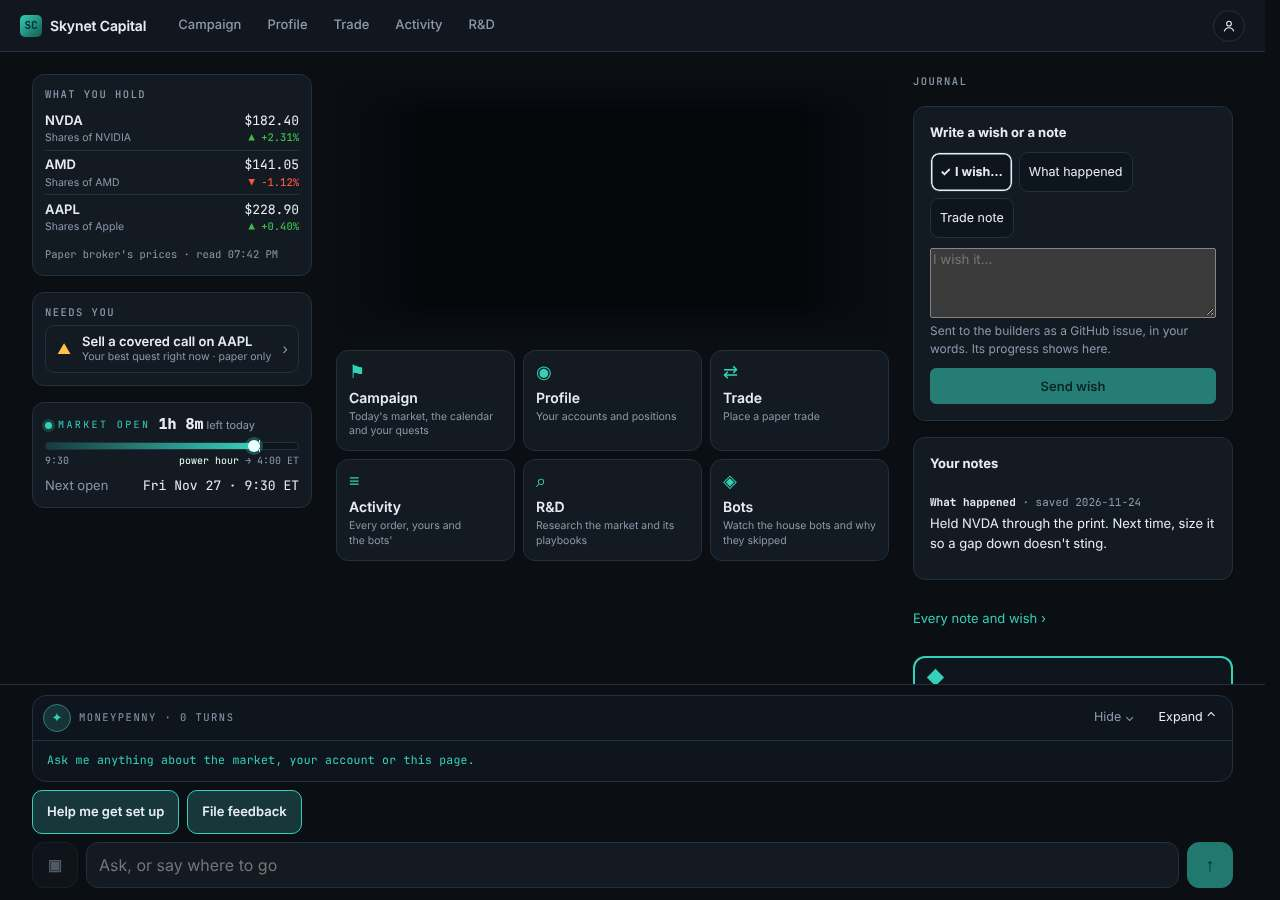
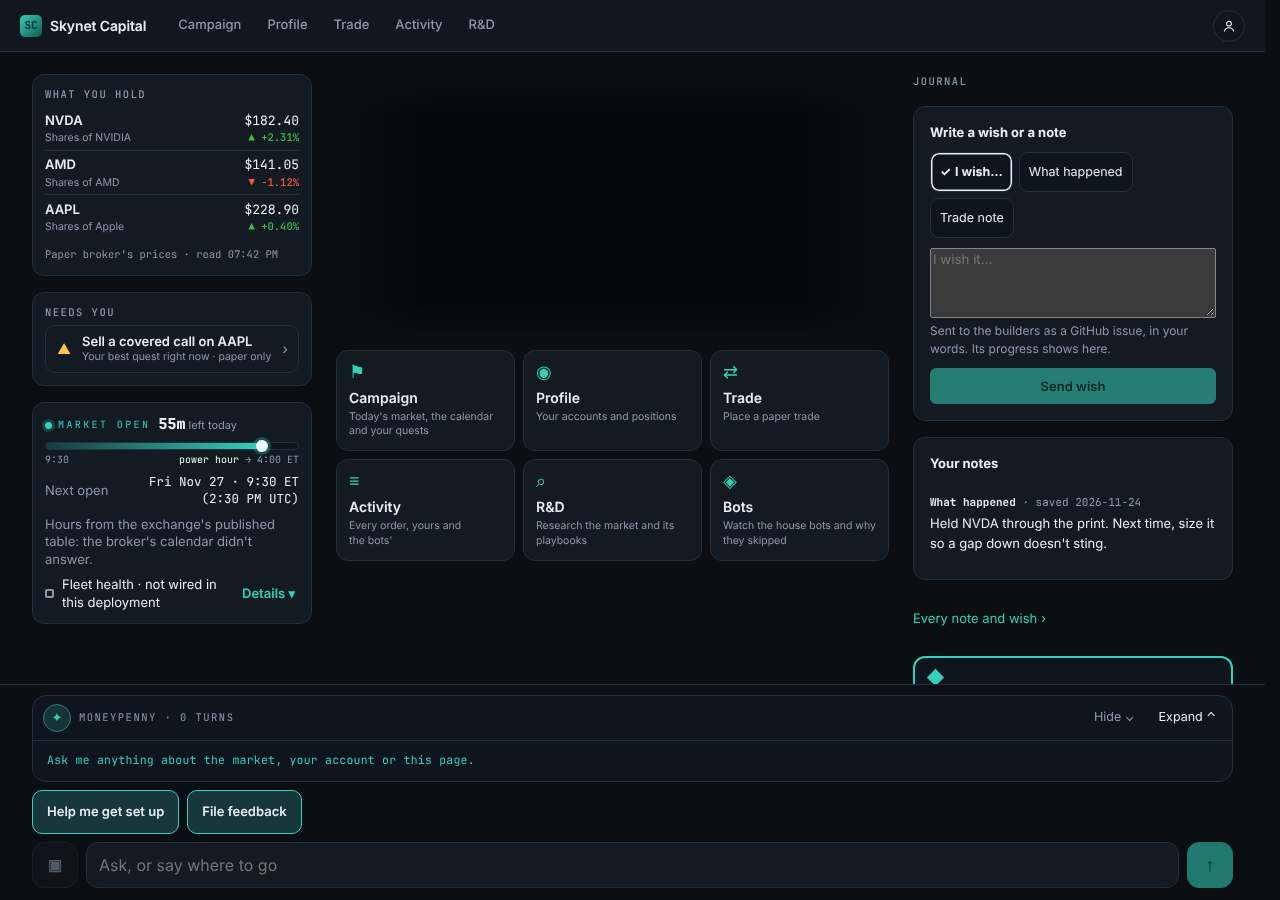
fix(app): side panels carry the bar's whole status panel; a pending filing read is not 'off' (#8297)
The panel clock now carries the bar's opened panel whole (next open in the viewer's time, the
hours notes, fleet health), since the bar's line steps aside at this width. The Journal waits for
the filings read instead of reading a pending or failed one as 'filing is off'. What you hold
lists account by account (a weight never ranks across two), keys on the account id and names the
oldest read. The failed-read gate scans the side panels too.

Claude-Session: https://claude.ai/code/session_01XLEAM4HyTq3nPgSYCbZX15

Changed region(s): [[0.0312, 0.4667, 0.25, 0.6844], [0.1875, 0.6533, 0.25, 0.6844]]

diff --git a/app/src/shell/side-panels.tsx b/app/src/shell/side-panels.tsx
@@ -4,12 +4,20 @@ import type { ReactElement, ReactNode } from "react";
 import { type DeskPosition, type DeskSnapshot, fetchDesk, type Tone } from "../live/desk";
 import { fetchFeedbackIndex } from "../live/feedback";
 import { fetchJournal, type JournalIndex } from "../live/journal";
-import { nextOpenLabel } from "../live/market-session";
+import {
+  localTimeSuffix,
+  marketSession,
+  nextOpenInstant,
+  nextOpenLabel,
+  viewerTimeZone,
+} from "../live/market-session";
 import { fetchSettings } from "../live/settings";
+import { FleetHealth, useFleet } from "./fleet-health";
 import { JournalComposer } from "./journal-composer";
 import { JournalNotes } from "./journal-notes";
 import { MarketSession, useNow } from "./market-session";
 import { NeedsYou, ScoreboardTile } from "./needs-you";
+import { HoursNotes } from "./session-status";
 import { useMediaQuery } from "./use-media";
 import { PANELS_QUERY } from "./widths";
 
@@ -59,14 +67,28 @@ export function readTime(iso: string): string {
   return at.toLocaleTimeString([], { hour: "2-digit", minute: "2-digit" });
 }
 
-/** One row per held position across the member's own accounts, biggest weight first. */
-export function heldRows(
-  snapshots: readonly DeskSnapshot[],
-): readonly { readonly position: DeskPosition; readonly account: string }[] {
+/** One row per held position, account by account in the member's own order, each account's
+ *  biggest weight first. A weight is a share of its own account, so it never ranks across two. An
+ *  error-tagged account is skipped: its `positions: []` is a failed read, never "holds nothing". */
+export function heldRows(snapshots: readonly DeskSnapshot[]): readonly {
+  readonly position: DeskPosition;
+  readonly accountId: string;
+}[] {
   return snapshots
     .filter((s) => !s.desk.error)
-    .flatMap((s) => s.desk.positions.map((position) => ({ position, account: s.desk.name })))
-    .sort((a, b) => b.position.weightPct - a.position.weightPct);
+    .flatMap((s) =>
+      [...s.desk.positions]
+        .sort((a, b) => b.weightPct - a.weightPct)
+        .map((position) => ({ position, accountId: s.desk.id })),
+    );
+}
+
+/** The oldest read among the accounts listed: the one time that is true of every row. */
+export function oldestRead(snapshots: readonly DeskSnapshot[]): string | undefined {
+  return snapshots
+    .filter((s) => !s.desk.error)
+    .map((s) => s.generatedAt)
+    .sort((a, b) => Date.parse(a) - Date.parse(b))[0];
 }
 
 function HeldNames(): ReactElement | null {
@@ -83,15 +105,15 @@ function HeldNames(): ReactElement | null {
   if (!desks.data) return null;
   const rows = heldRows(desks.data);
   if (rows.length === 0) return null;
-  const read = desks.data.find((s) => !s.desk.error)?.generatedAt;
+  const read = oldestRead(desks.data);
   return (
     <section className="dp-card dp-held" aria-labelledby="dp-held-title">
       <h2 id="dp-held-title" className="home-eyebrow">
         What you hold
       </h2>
       <ul className="dp-held-rows">
-        {rows.map(({ position: p, account }) => (
-          <li key={`${account}:${p.symbol}`}>
+        {rows.map(({ position: p, accountId }) => (
+          <li key={`${accountId}:${p.symbol}`}>
             <Link className="dp-held-row" to="/accounts">
               <span className="dp-held-name">
                 <span className="dp-held-symbol">{p.display}</span>
@@ -116,15 +138,26 @@ function HeldNames(): ReactElement | null {
   );
 }
 
-/** The opened clock and the next open: the top bar's folded clock steps aside while it stands. */
+/** Everything the top bar's opened status panel says, standing: the clock, the next open (in
+ *  the viewer's own time too), the hours notes (a half day, or hours from the published table when
+ *  the broker's calendar didn't answer) and fleet health. The bar's line steps aside while it
+ *  stands (`side-panels.css`), so nothing the line opened is lost at this width. */
 function PanelClock(): ReactElement {
   const now = useNow();
+  const fleet = useFleet();
+  const local = localTimeSuffix(nextOpenInstant(now), viewerTimeZone());
   return (
-    <section className="dp-card dp-clock" aria-label="Market clock">
+    <section className="dp-card dp-clock" aria-label="Market clock and fleet health">
       <MarketSession now={now} />
-      <p className="dp-clock-next">
-        <span>Next open</span> <span className="num">{nextOpenLabel(now)}</span>
+      <p className="status-panel-row">
+        <span>Next open</span>
+        <span className="num">
+          <span>{nextOpenLabel(now)}</span>
+          {local ? <span className="status-panel-local">{local}</span> : null}
+        </span>
       </p>
+      <HoursNotes view={marketSession(now)} />
+      <FleetHealth fleet={fleet} />
     </section>
   );
 }
@@ -150,11 +183,19 @@ function JournalCard(): ReactElement {
       <h2 id="dp-journal-title" className="home-eyebrow">
         Journal
       </h2>
-      <JournalComposer
-        wishesEnabled={Boolean(feedback.data?.enabled) && journal.wishesEnabled}
-        notesAvailable={journal.available}
-        notesReason={journal.reason}
-      />
+      {/* As Profile's section does: the composer waits for the filings read, so a pending or
+          failed read is never shown as "filing is switched off" (#8316's rule). */}
+      {feedback.data ? (
+        <JournalComposer
+          wishesEnabled={feedback.data.enabled && journal.wishesEnabled}
+          notesAvailable={journal.available}
+          notesReason={journal.reason}
+        />
+      ) : (
+        <p className="note">
+          {feedback.isError ? "Your journal is unreachable right now." : "Opening your journal…"}
+        </p>
+      )}
       <JournalNotes
         notes={journal.notes.slice(0, 1)}
         available={journal.available}

diff --git a/app/tests/shell/side-panels.spec.tsx b/app/tests/shell/side-panels.spec.tsx
@@ -1,10 +1,10 @@
 import { describe, expect, it } from "@rstest/core";
 import type { DeskPosition, DeskSnapshot } from "../../src/live/desk";
-import { heldRows, readTime, TONE_SHAPE } from "../../src/shell/side-panels";
+import { heldRows, oldestRead, readTime, TONE_SHAPE } from "../../src/shell/side-panels";
 
 /**
  * #8297: the left panel's "What you hold" heads the panel when the member holds positions. WHEN
- * desks are read, it SHALL list every held position across the member's own accounts, biggest
+ * desks are read, it SHALL list every held position, account by account, each account's biggest
  * weight first, and SHALL skip an account whose read came back error-tagged (its `positions: []`
  * is a failed read, never "holds nothing"). Every move SHALL wear a shape beside its sign.
  */
@@ -12,22 +12,27 @@ import { heldRows, readTime, TONE_SHAPE } from "../../src/shell/side-panels";
 const pos = (symbol: string, weightPct: number): DeskPosition =>
   ({ symbol, display: symbol, weightPct }) as DeskPosition;
 
-const snap = (name: string, positions: readonly DeskPosition[], error?: string): DeskSnapshot =>
+const snap = (
+  name: string,
+  positions: readonly DeskPosition[],
+  error?: string,
+  generatedAt = "2026-11-25T19:42:00Z",
+): DeskSnapshot =>
   ({
-    generatedAt: "2026-11-25T19:42:00Z",
+    generatedAt,
     desk: { id: name, name, kind: "human", positions, ...(error ? { error } : {}) },
   }) as DeskSnapshot;
 
 describe("heldRows", () => {
-  it("lists every held position across accounts, biggest weight first", () => {
+  it("lists account by account, each account's biggest weight first (a weight never ranks across two)", () => {
     const rows = heldRows([
       snap("A", [pos("AMD", 10), pos("NVDA", 60)]),
-      snap("B", [pos("AAPL", 30)]),
+      snap("B", [pos("AAPL", 90)]),
     ]);
-    expect(rows.map((r) => `${r.account}:${r.position.symbol}`)).toEqual([
+    expect(rows.map((r) => `${r.accountId}:${r.position.symbol}`)).toEqual([
       "A:NVDA",
-      "B:AAPL",
       "A:AMD",
+      "B:AAPL",
     ]);
   });
 
@@ -43,6 +48,16 @@ describe("heldRows", () => {
 describe("the move's shape and the read time", () => {
   it("pairs up with ▲ and down with ▼; flat wears none", () => {
     expect(TONE_SHAPE).toEqual({ pos: "▲", neg: "▼", flat: "" });
+  });
+
+  it("names the oldest read among the accounts listed, skipping a failed one", () => {
+    expect(
+      oldestRead([
+        snap("A", [], undefined, "2026-11-25T19:42:00Z"),
+        snap("B", [], undefined, "2026-11-25T19:02:00Z"),
+        snap("C", [], "unreachable", "2026-11-25T18:00:00Z"),
+      ]),
+    ).toBe("2026-11-25T19:02:00Z");
   });
 
   it("formats an ISO read time as a clock time, and keeps text that isn't a date", () => {

diff --git a/app/src/styles/side-panels.css b/app/src/styles/side-panels.css
@@ -115,17 +115,47 @@
   color: var(--muted);
 }
 
-/* ── The clock ── */
-.dp-clock-next {
-  margin: 8px 0 0;
+/* ── The clock: the status panel's rows, sized for a 280px panel ── */
+.dp-clock {
+  display: flex;
+  flex-direction: column;
+  gap: 8px;
+  font-size: 13px;
+  line-height: 1.35;
+}
+.dp-clock .status-panel-row {
+  margin: 0;
   display: flex;
   justify-content: space-between;
   gap: 8px;
-  font-size: 13px;
+}
+.dp-clock > .status-panel-row > span:first-child {
+  white-space: nowrap;
   color: var(--muted);
 }
-.dp-clock-next .num {
-  color: var(--text);
+.dp-clock .status-panel-row .num {
+  display: flex;
+  flex-direction: column;
+  align-items: flex-end;
+  text-align: right;
+}
+.dp-clock > .status-panel-row[data-note] > span:first-child {
+  white-space: normal;
+}
+/* Fleet health: the bar's panel lays it out as `display: contents` in a row; here it is its own
+   wrapping line, its rows (when asked for) below. */
+.dp-clock .fleet-health {
+  display: flex;
+  flex-wrap: wrap;
+  align-items: center;
+  justify-content: space-between;
+  gap: 4px 8px;
+}
+.dp-clock .fleet-summary {
+  min-width: 0;
+}
+.dp-clock .fleet-health .ops-rows-wrap {
+  flex-basis: 100%;
 }
 
 /* ── The Journal ── */

diff --git a/tests/arch/failed-read-not-empty.spec.ts b/tests/arch/failed-read-not-empty.spec.ts
@@ -27,6 +27,8 @@ const ROUTES = "app/src/routes";
 /** The home's "Needs you" left the route for the shell in #8297 (the desktop panels stand it beside
  *  other pages); the scan follows it there so its anchor never goes blind. */
 const NEEDS_YOU = "app/src/shell/needs-you.tsx";
+/** The desktop side panels (#8297) read desks, filings and notes beside any page that takes them. */
+const SIDE_PANELS = "app/src/shell/side-panels.tsx";
 
 /** Reads a hub participant row's positions: `….getState().participants` plus a `.positions`. */
 const READS_HUB_POSITIONS = (text: string): boolean =>
@@ -122,7 +124,7 @@ describe.each([
   },
   {
     name: "app: a route's query must decide its failure",
-    dirs: [ROUTES, NEEDS_YOU],
+    dirs: [ROUTES, NEEDS_YOU, SIDE_PANELS],
     ext: /\.tsx?$/,
     applies: CALLS_QUERY,
     handles: MENTIONS_QUERY_ERROR,

diff --git a/app/src/shell/session-status.tsx b/app/src/shell/session-status.tsx
@@ -147,7 +147,7 @@ export function SessionStatus({ now }: { readonly now?: Date }): ReactElement {
  * where the hours came from instead. Words, never a tint: a standing reader is red/green
  * colourblind (docs/BRAND.md → Accessibility).
  */
-function HoursNotes({ view }: { readonly view: MarketSessionView }): ReactElement | null {
+export function HoursNotes({ view }: { readonly view: MarketSessionView }): ReactElement | null {
   const today = view.halfDay && view.state !== "closed";
   const next = view.nextHalfDayClose && view.nextOpen ? view.nextOpen.split(" ")[0] : undefined;
   if (!(today || next) && view.source !== "table") return null;
